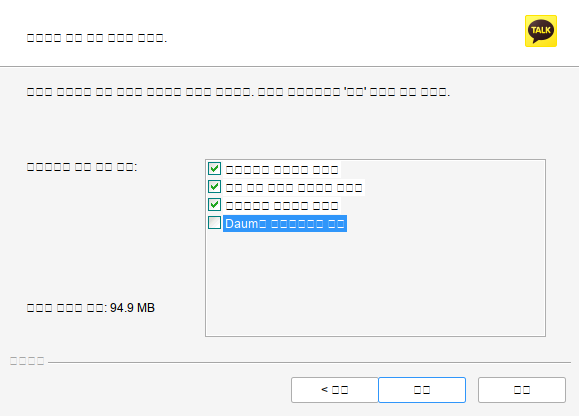
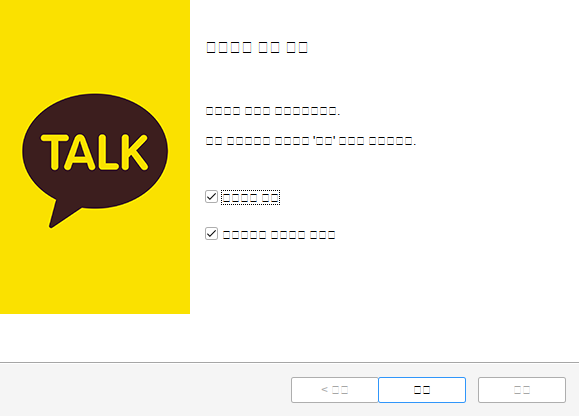
update readme, fix shellcheck

diff --git a/README.md b/README.md
@@ -5,6 +5,7 @@
 Configuration Environment for KakaoTalk [1] and its wrapper script to start and quit Kakao Talk in the Debian / Ubuntu Linux.
 
 ## News
+* 2025-09-11: Debian 13 Support
 * 2023-07-03: The automatic update of KakaoTalk works on my Debian 12 machine with the 3.5.2.3502 version.
 
 ## Backgroud
@@ -21,13 +22,13 @@ usermod -aG sudo ${USER}
 
 Of course, one should log out and log in, then return to this console.
 
-* Install required packages and **Wine 8 stable** (latest) from the Winehq repository.
+* Install required packages and **Wine latest** from the Winehq repository.
 
 ```bash
 bash scripts/UpdateWine4Debian.bash
 ```
 
-* Configure Wine first. And choose Window 10. (It doesn't matter, actually.)
+* Configure Wine first. And choose Window 11. (It doesn't matter, actually.)
 
 ```bash
 winecfg
@@ -43,58 +44,59 @@ winecfg
 $ make setup
 ```
 
-*  Make sure you select `한국어` instead of `English` at this step. With Wine 7, it works, but UI is ugly.
+* Make sure you select `한국어` instead of `English` at this step. And hit `OK`.
 
 |![setup1.png](images/setup1.png)|
 | :---: |
 |**Setup Step 1** |
 
 
-* Click next or continue `  >`
-
-
 |![setup2.png](images/setup2.png)|
 | :---: |
 |**Setup Step 2** |
 
+* Click next or continue ` [ ][ ] >`
 
-|![setupi3.png](images/setup3.png)|
+|![setup2.1.png](images/setup2.1.png)|
+| :---: |
+|**Setup Step 2.1** |
+
+* Click next or continue `[ ][ ][ ]`
+
+|![setup3.png](images/setup3.png)|
 | :---: |
 |**Setup Step 3** |
 
-
-* Unselect the checkbox with the Daum prefix
+* Click next or continue `[ ][ ]`
 
 |![setupi4.png](images/setup4.png)|
 | :---: |
 |**Setup Step 4** |
 
-* Select the Middle button (as default). One has to log in to the Kakao service with an account.
+* Click next or continue `[ ][ ]`
+
 
 |![setup5.png](images/setup5.png)|
 | :---: |
 |**Setup Step 5** |
 
+* Use QR code login
+
 |![setup6.png](images/setup6.png)|
 | :---: |
 |**Setup Step 6** |
+
+* Go to the Setting to select `Nanum Gothic`, then kakaotalk will be restarted.
 
 |![setup7.png](images/setup7.png)|
 | :---: |
 |**Setup Step 7** |
 
-* One should go `화면` option, the sixth from top to bottom, in the left broken menu. The first and second options in the right panel are shown in the following picture.
-Please select the second one as Nanum font. Then the application will ask us to reboot. After rebooting, one can see the Korean font well.
+* Version
 
 |![setup8.png](images/setup8.png)|
 | :---: |
 |**Setup Step 8** |
-
-* Version
-
-|![setup9.png](images/setup9.png)|
-| :---: |
-|**Setup Step 9** |
 
 
 ### `make get`
@@ -111,8 +113,8 @@ This rule shows the two definitions in `$HOME/.wine/system.reg`.
 
 ```bash
 $ make conf.show
- 88261  "MS Shell Dlg"="NanumGothic"
- 88262  "MS Shell Dlg 2"="NanumGothic"
+ 69377	"MS Shell Dlg"="NanumBarunGothic"
+ 69378	"MS Shell Dlg 2"="NanumBarunGothic"
 ```
 
 ### `make install`
@@ -161,33 +163,6 @@ or
 make stop
 ```
 
-## Ubuntu 20.04
-
-* There is no `NanumGothic`, but one can select `NanumBarunGothic` in the setting of KakaoTalk.
-
-|![Ubuntu20](images/ubuntu20.png)|
-| :---: |
-|**Figure 11** Kakao Talk Setting. |
-
-* ufw is the default active stage but disabled. I tested with both disable and enable (with gufw) with the default ufw firewall configuration. Both cases work fine.
-
-## Doesn't work
-
-In case this repository doesn't work for anyone. One may try the method with PlayOnLinux, shown at https://github.com/kimlulz/Katalk_linux.
-
-## More Screenshots
-
-|![Kakao Talk Setting](images/settings.png)|
-| :---: |
-|**Figure 12** Kakao Talk Setting. |
-
-|![Kakao Talk Setting](images/settings_info.png)|
-| :---: |
-|**Figure 13** Kakao Talk Setting Information. |
-
-|![System Inforg](images/system_info.png)|
-| :---: |
-|**Figure 14** Kakao Talk and Debian System Information. |
 
 ## Korean Input System
 
